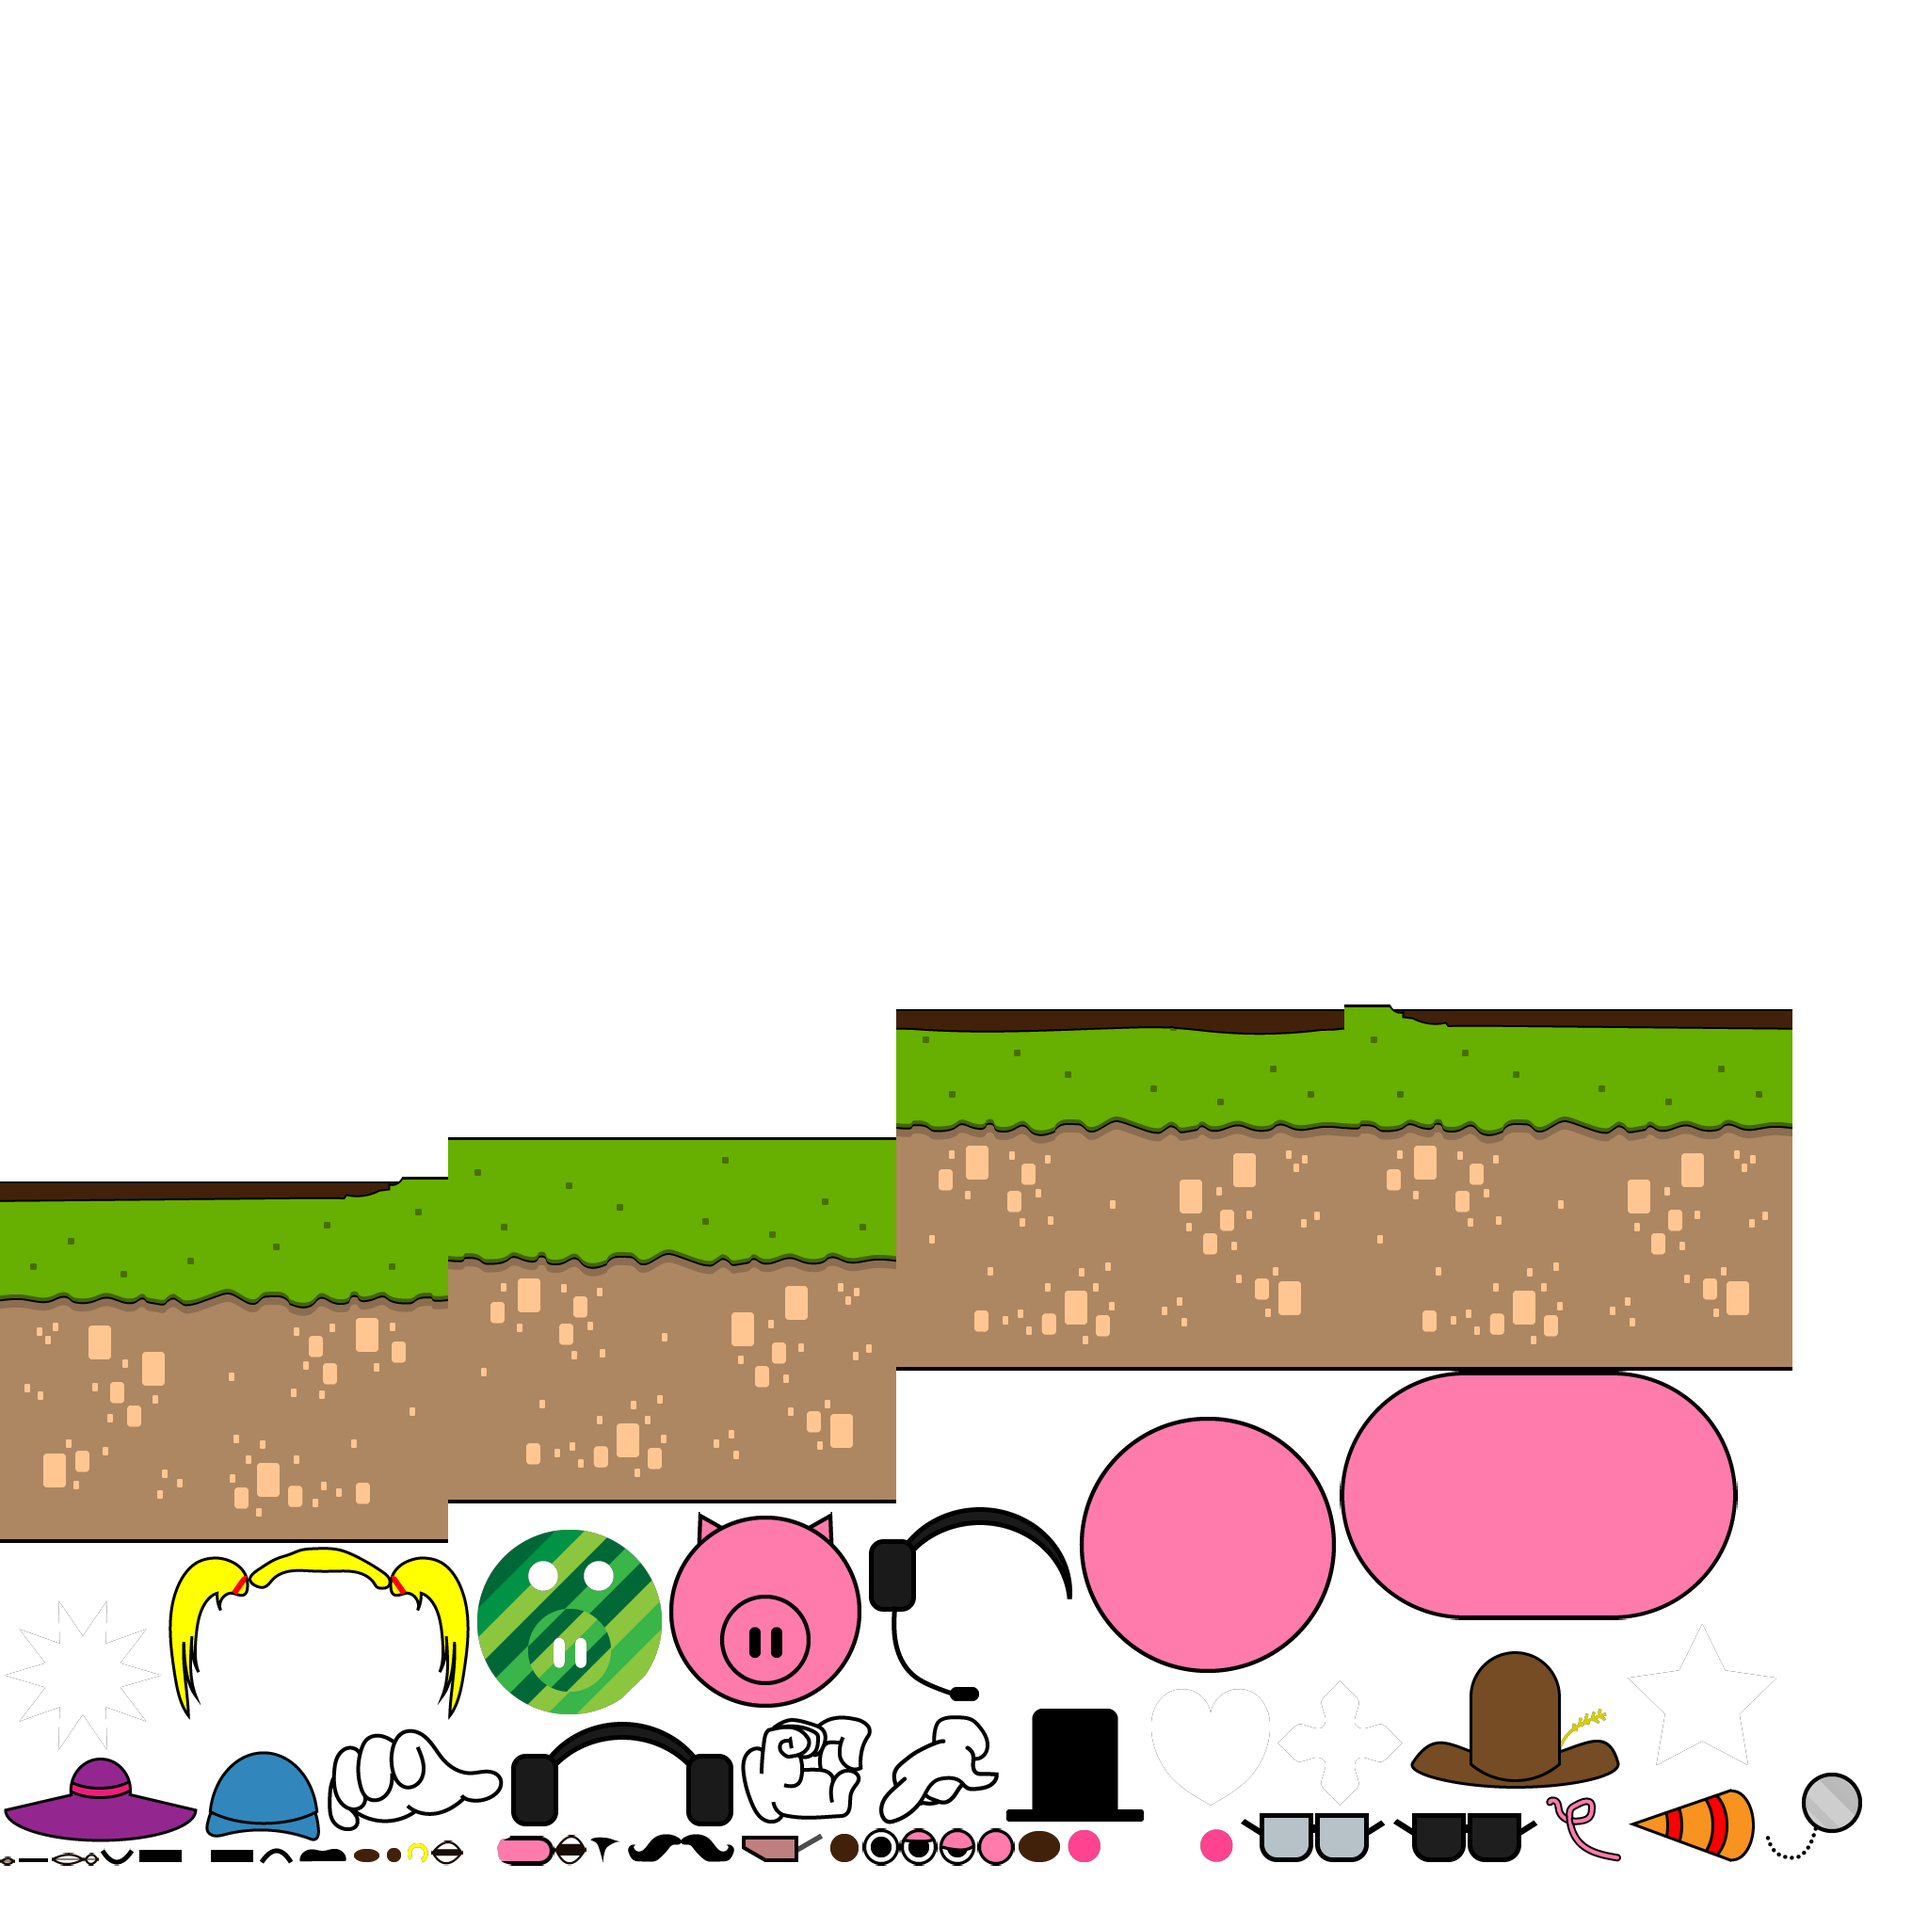
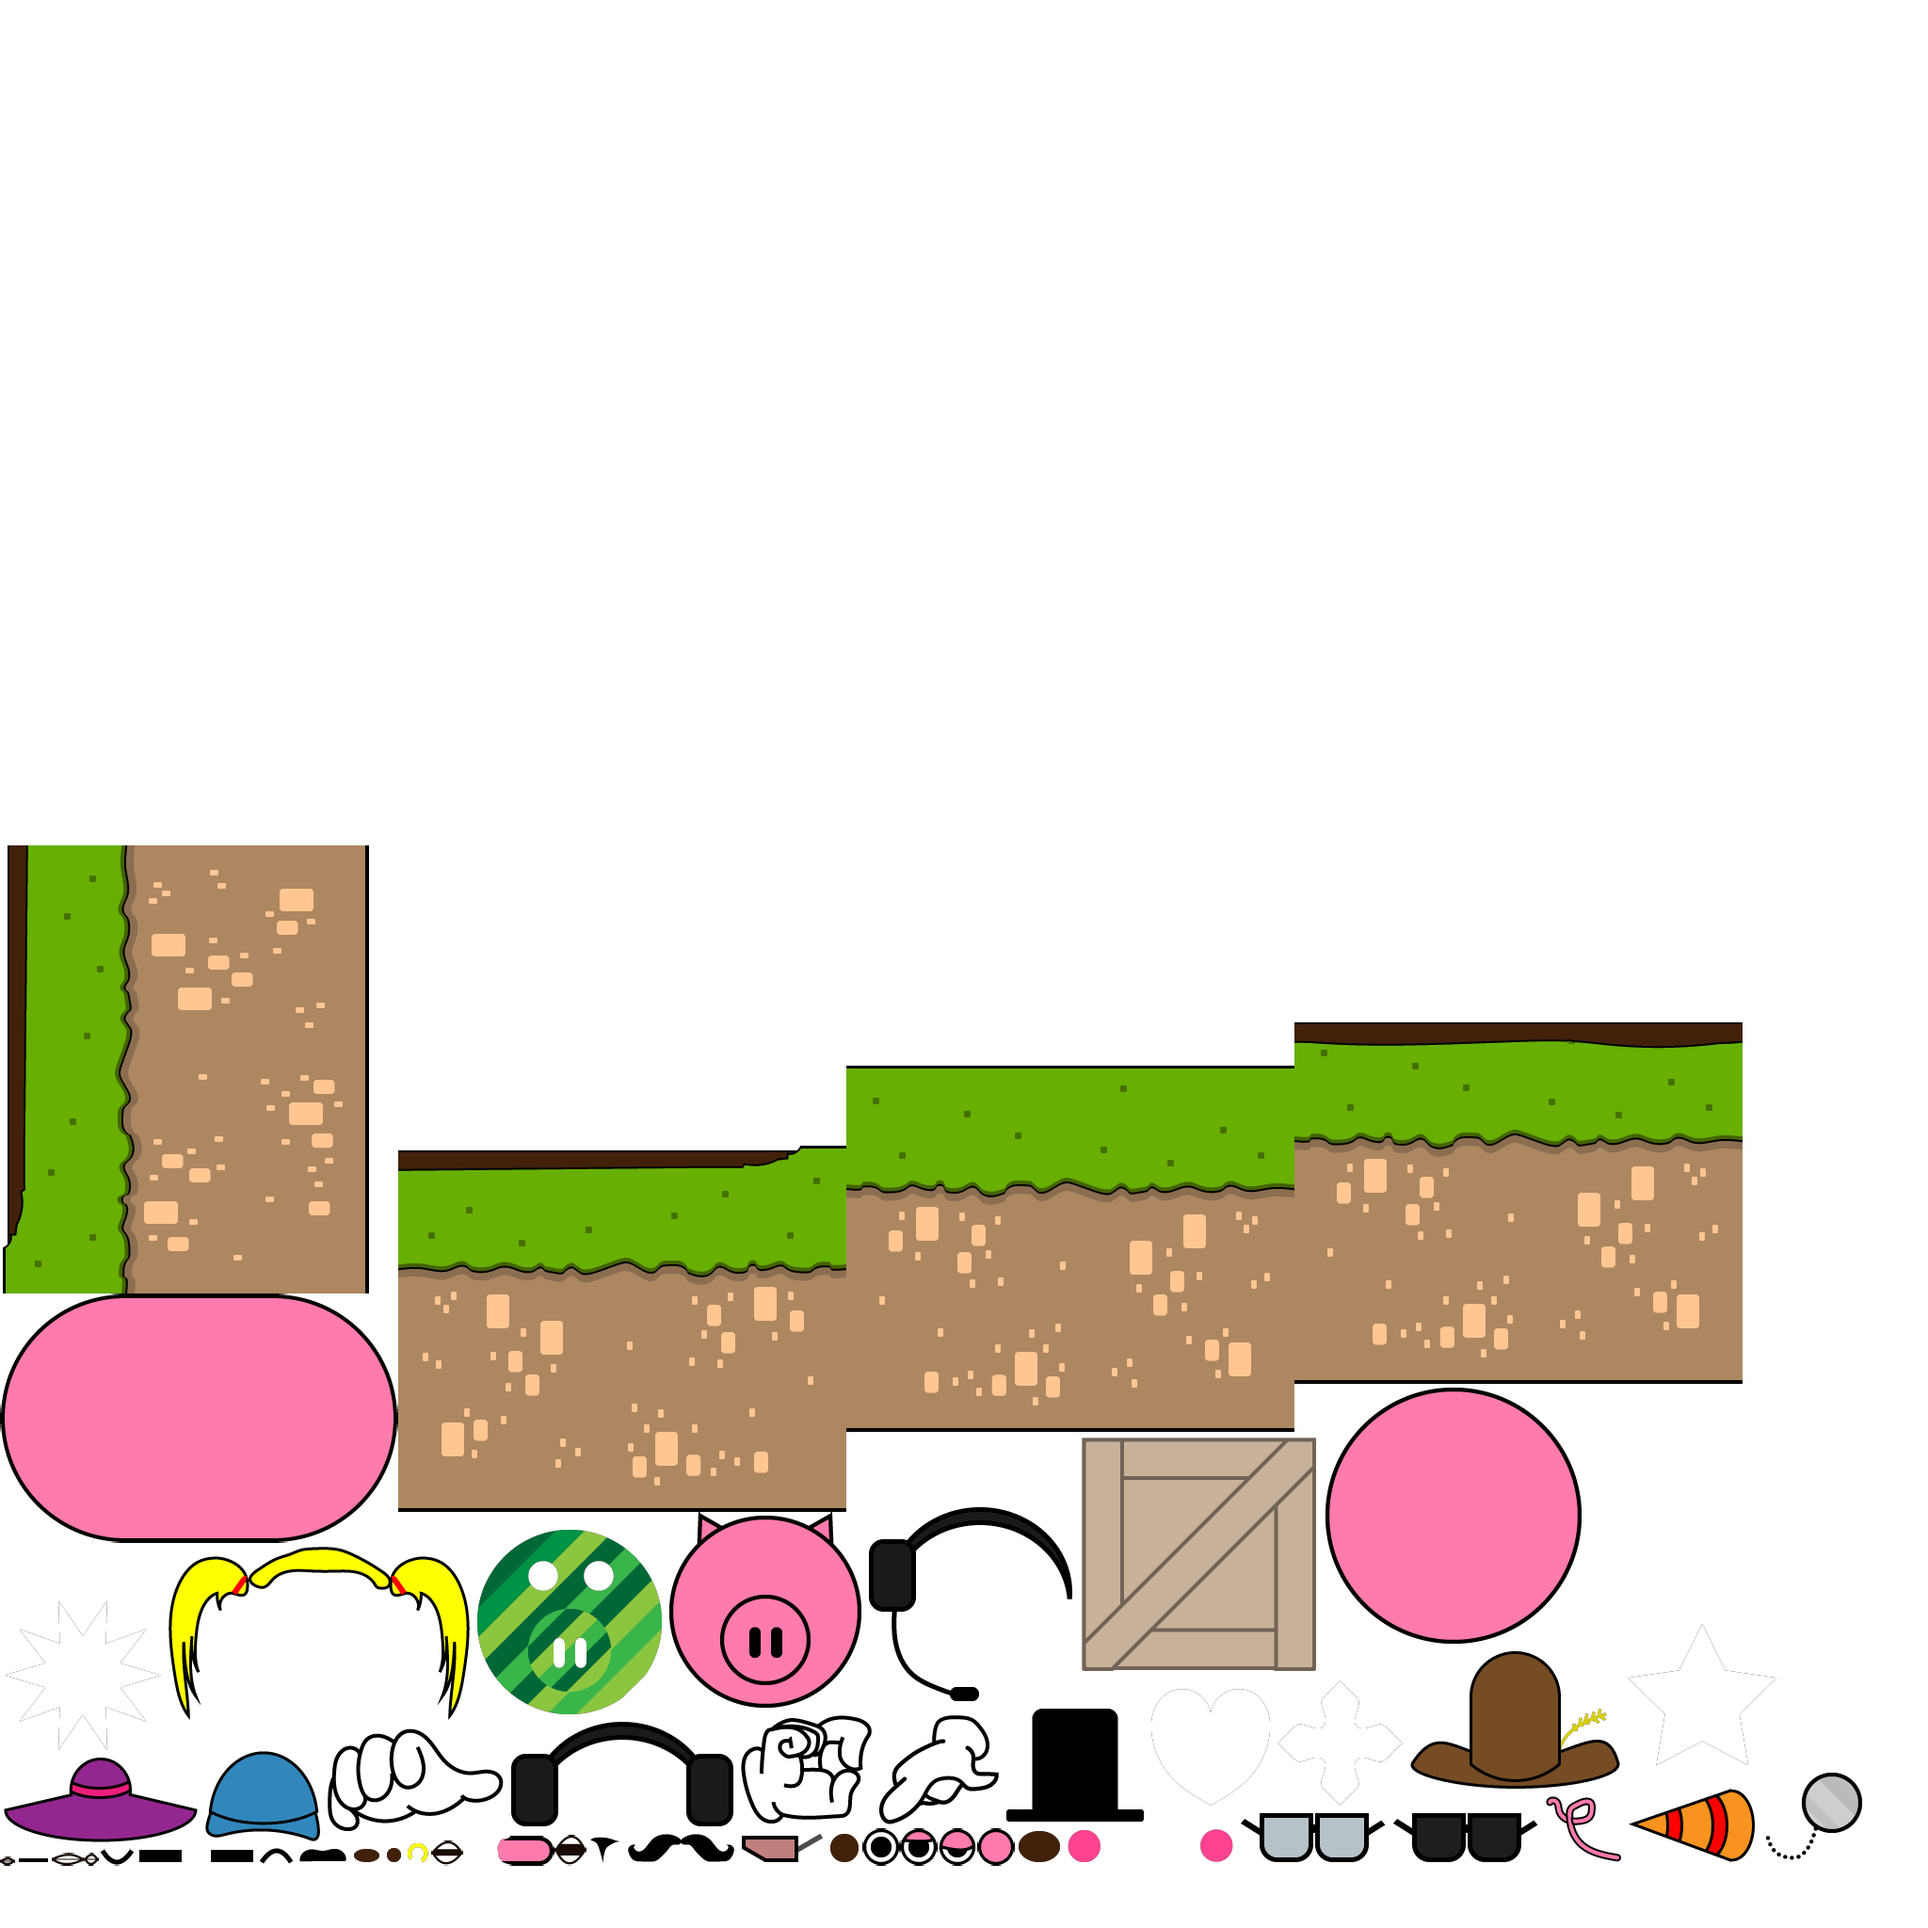
Added crate.

Changed region(s): [[0.0, 0.4375, 0.9375, 0.875]]

diff --git a/core/src/com/ray3k/template/screens/GameScreen.java b/core/src/com/ray3k/template/screens/GameScreen.java
@@ -37,6 +37,11 @@ public class GameScreen extends JamScreen implements InputProcessor {
     private final static Vector3 tempVector3 = new Vector3();
     private static IntArray keysJustPressed = new IntArray();
     private static IntArray buttonsJustPressed = new IntArray();
+    public static int PIG_DEPTH = 10;
+    public static int BACKGROUND_DEPTH = 1000;
+    public static int PARTICLE_DEPTH = 100;
+    public static int MUD_DEPTH = 0;
+    public static int CRATE_DEPTH = 1010;
     
     public GameScreen(Action action) {
         this.action = action;
@@ -52,9 +57,9 @@ public class GameScreen extends JamScreen implements InputProcessor {
         entityController = new EntityController();
         gameCamera = new OrthographicCamera();
         gameViewport = new ExtendViewport(1024, 576, gameCamera);
-        gameCamera.zoom = 3f;
+        gameCamera.zoom = 4f;
         gameViewport.update(Gdx.graphics.getWidth(),  Gdx.graphics.getHeight());
-        gameCamera.position.set(474 * 3.5f, gameViewport.getWorldHeight() * gameCamera.zoom / 2,  0);
+        gameCamera.position.set(474 * 4.5f, gameViewport.getWorldHeight() * gameCamera.zoom / 2,  0);
         core = Core.core;
         skin = core.skin;
     
@@ -72,10 +77,6 @@ public class GameScreen extends JamScreen implements InputProcessor {
         root.setFillParent(true);
         stage.addActor(root);
     
-        ParticleEntity entity = new ParticleEntity(core.tossParticleEffect);
-        entity.setPosition(200, 200);
-        entityController.add(entity);
-    
         PigEntity pigEntity = new PigEntity();
         pigEntity.setPosition(500, 200);
         entityController.add(pigEntity);
@@ -88,25 +89,37 @@ public class GameScreen extends JamScreen implements InputProcessor {
         platformEntity.setPosition(474, 390);
         entityController.add(platformEntity);
     
+        platformEntity = new PlatformEntity();
+        platformEntity.setPosition(474 * 2, 390);
+        entityController.add(platformEntity);
+    
         PlatformMudLeftEntity platformMudLeftEntity = new PlatformMudLeftEntity();
-        platformMudLeftEntity.setPosition(474 * 2, 390);
+        platformMudLeftEntity.setPosition(474 * 3, 390);
         entityController.add(platformMudLeftEntity);
     
         PlatformMudEntity platformMudEntity = new PlatformMudEntity();
-        platformMudEntity.setPosition(474 * 3, 390);
+        platformMudEntity.setPosition(474 * 4, 390);
         entityController.add(platformMudEntity);
     
         PlatformMudRightEntity platformMudRightEntity = new PlatformMudRightEntity();
-        platformMudRightEntity.setPosition(474 * 4, 390);
+        platformMudRightEntity.setPosition(474 * 5, 390);
         entityController.add(platformMudRightEntity);
-    
-        platformEntity = new PlatformEntity();
-        platformEntity.setPosition(474 * 5, 390);
-        entityController.add(platformEntity);
     
         platformEntity = new PlatformEntity();
         platformEntity.setPosition(474 * 6, 390);
         entityController.add(platformEntity);
+    
+        platformEntity = new PlatformEntity();
+        platformEntity.setPosition(474 * 7, 390);
+        entityController.add(platformEntity);
+    
+        platformEntity = new PlatformEntity();
+        platformEntity.setPosition(474 * 8, 390);
+        entityController.add(platformEntity);
+        
+        CrateEntity crateEntity = new CrateEntity();
+        crateEntity.setPosition(1493, 380);
+        entityController.add(crateEntity);
     }
     
     @Override

diff --git a/core/src/com/ray3k/template/Core.java b/core/src/com/ray3k/template/Core.java
@@ -42,6 +42,9 @@ public class Core extends JamGame {
     public AnimationStateData platformMudLeftAnimationStateData;
     public SkeletonData platformMudRightSkeletonData;
     public AnimationStateData platformMudRightAnimationStateData;
+    public SkeletonData crateSkeletonData;
+    public AnimationStateData crateAnimationStateData;
+    
     public ParticleEffect mudParticleEffect;
     public ParticleEffect tossParticleEffect;
     public Cursor invisibleCursor;
@@ -93,6 +96,7 @@ public class Core extends JamGame {
         assetManager.load("spine/platform-mud.json", SkeletonData.class, parameter);
         assetManager.load("spine/platform-mud-left.json", SkeletonData.class, parameter);
         assetManager.load("spine/platform-mud-right.json", SkeletonData.class, parameter);
+        assetManager.load("spine/crate.json", SkeletonData.class, parameter);
     
         ParticleEffectLoader.ParticleEffectParameter particleEffectParameter = new ParticleEffectLoader.ParticleEffectParameter();
         particleEffectParameter.atlasFile = "spine/The Revenge of Doctor Pigenstein.atlas";
@@ -123,6 +127,8 @@ public class Core extends JamGame {
             platformMudLeftAnimationStateData = new AnimationStateData(platformMudLeftSkeletonData);
             platformMudRightSkeletonData = assetManager.get("spine/platform-mud-right.json");
             platformMudRightAnimationStateData = new AnimationStateData(platformMudRightSkeletonData);
+            crateSkeletonData = assetManager.get("spine/crate.json");
+            crateAnimationStateData = new AnimationStateData(crateSkeletonData);
             
             mudParticleEffect = assetManager.get("particles/mud.p");
             tossParticleEffect = assetManager.get("particles/toss.p");

diff --git a/core/src/com/ray3k/template/entities/CrateEntity.java b/core/src/com/ray3k/template/entities/CrateEntity.java
@@ -5,24 +5,23 @@ import com.esotericsoftware.spine.AnimationStateData;
 import com.esotericsoftware.spine.SkeletonData;
 import com.ray3k.template.screens.GameScreen;
 
-public class PlatformMudEntity extends Entity implements ground {
-    private SkeletonData skeletonData;
-    private AnimationStateData animationStateData;
-    private static Animation animation;
+public class CrateEntity extends Entity {
+    private Animation animation;
+    private static SkeletonData skeletonData;
+    private static AnimationStateData animationStateData;
     
     @Override
     public void create() {
-        depth = GameScreen.BACKGROUND_DEPTH;
+        depth = GameScreen.CRATE_DEPTH;
         
         if (skeletonData == null) {
-            skeletonData = core.platformMudSkeletonData;
-            animationStateData = core.platformMudAnimationStateData;
+            skeletonData = core.crateSkeletonData;
+            animationStateData = core.crateAnimationStateData;
             
             animation = skeletonData.findAnimation("animation");
         }
-        
+    
         setSkeletonData(skeletonData, animationStateData);
-        animationState.setAnimation(0, animation, false);
     }
     
     @Override

diff --git a/core/src/com/ray3k/template/entities/PlatformMudRightEntity.java b/core/src/com/ray3k/template/entities/PlatformMudRightEntity.java
@@ -3,6 +3,7 @@ package com.ray3k.template.entities;
 import com.esotericsoftware.spine.Animation;
 import com.esotericsoftware.spine.AnimationStateData;
 import com.esotericsoftware.spine.SkeletonData;
+import com.ray3k.template.screens.GameScreen;
 
 public class PlatformMudRightEntity extends Entity implements ground {
     private SkeletonData skeletonData;
@@ -11,6 +12,8 @@ public class PlatformMudRightEntity extends Entity implements ground {
     
     @Override
     public void create() {
+        depth = GameScreen.BACKGROUND_DEPTH;
+        
         if (skeletonData == null) {
             skeletonData = core.platformMudRightSkeletonData;
             animationStateData = core.platformMudRightAnimationStateData;

diff --git a/core/src/com/ray3k/template/entities/PlatformMudLeftEntity.java b/core/src/com/ray3k/template/entities/PlatformMudLeftEntity.java
@@ -3,6 +3,7 @@ package com.ray3k.template.entities;
 import com.esotericsoftware.spine.Animation;
 import com.esotericsoftware.spine.AnimationStateData;
 import com.esotericsoftware.spine.SkeletonData;
+import com.ray3k.template.screens.GameScreen;
 
 public class PlatformMudLeftEntity extends Entity implements ground {
     private SkeletonData skeletonData;
@@ -11,6 +12,8 @@ public class PlatformMudLeftEntity extends Entity implements ground {
     
     @Override
     public void create() {
+        depth = GameScreen.BACKGROUND_DEPTH;
+        
         if (skeletonData == null) {
             skeletonData = core.platformMudLeftSkeletonData;
             animationStateData = core.platformMudLeftAnimationStateData;

diff --git a/core/src/com/ray3k/template/entities/PlatformEntity.java b/core/src/com/ray3k/template/entities/PlatformEntity.java
@@ -4,6 +4,7 @@ import com.badlogic.gdx.math.MathUtils;
 import com.esotericsoftware.spine.Animation;
 import com.esotericsoftware.spine.AnimationStateData;
 import com.esotericsoftware.spine.SkeletonData;
+import com.ray3k.template.screens.GameScreen;
 
 public class PlatformEntity extends Entity implements ground {
     private SkeletonData skeletonData;
@@ -12,6 +13,8 @@ public class PlatformEntity extends Entity implements ground {
     
     @Override
     public void create() {
+        depth = GameScreen.BACKGROUND_DEPTH;
+        
         if (skeletonData == null) {
             skeletonData = core.platformSkeletonData;
             animationStateData = core.platformAnimationStateData;

diff --git a/core/src/com/ray3k/template/entities/PigEntity.java b/core/src/com/ray3k/template/entities/PigEntity.java
@@ -4,6 +4,7 @@ import com.badlogic.gdx.math.MathUtils;
 import com.esotericsoftware.spine.Animation;
 import com.esotericsoftware.spine.AnimationStateData;
 import com.esotericsoftware.spine.SkeletonData;
+import com.ray3k.template.screens.GameScreen;
 
 public class PigEntity extends Entity {
     private SkeletonData skeletonData;
@@ -19,6 +20,8 @@ public class PigEntity extends Entity {
     
     @Override
     public void create() {
+        depth = GameScreen.PIG_DEPTH;
+        
         if (skeletonData == null) {
             skeletonData = core.pigSkeletonData;
             animationStateData = core.pigAnimationStateData;

diff --git a/core/src/com/ray3k/template/entities/ParticleEntity.java b/core/src/com/ray3k/template/entities/ParticleEntity.java
@@ -12,7 +12,7 @@ public class ParticleEntity extends Entity {
     
     @Override
     public void create() {
-    
+        depth = GameScreen.PARTICLE_DEPTH;
     }
     
     @Override
